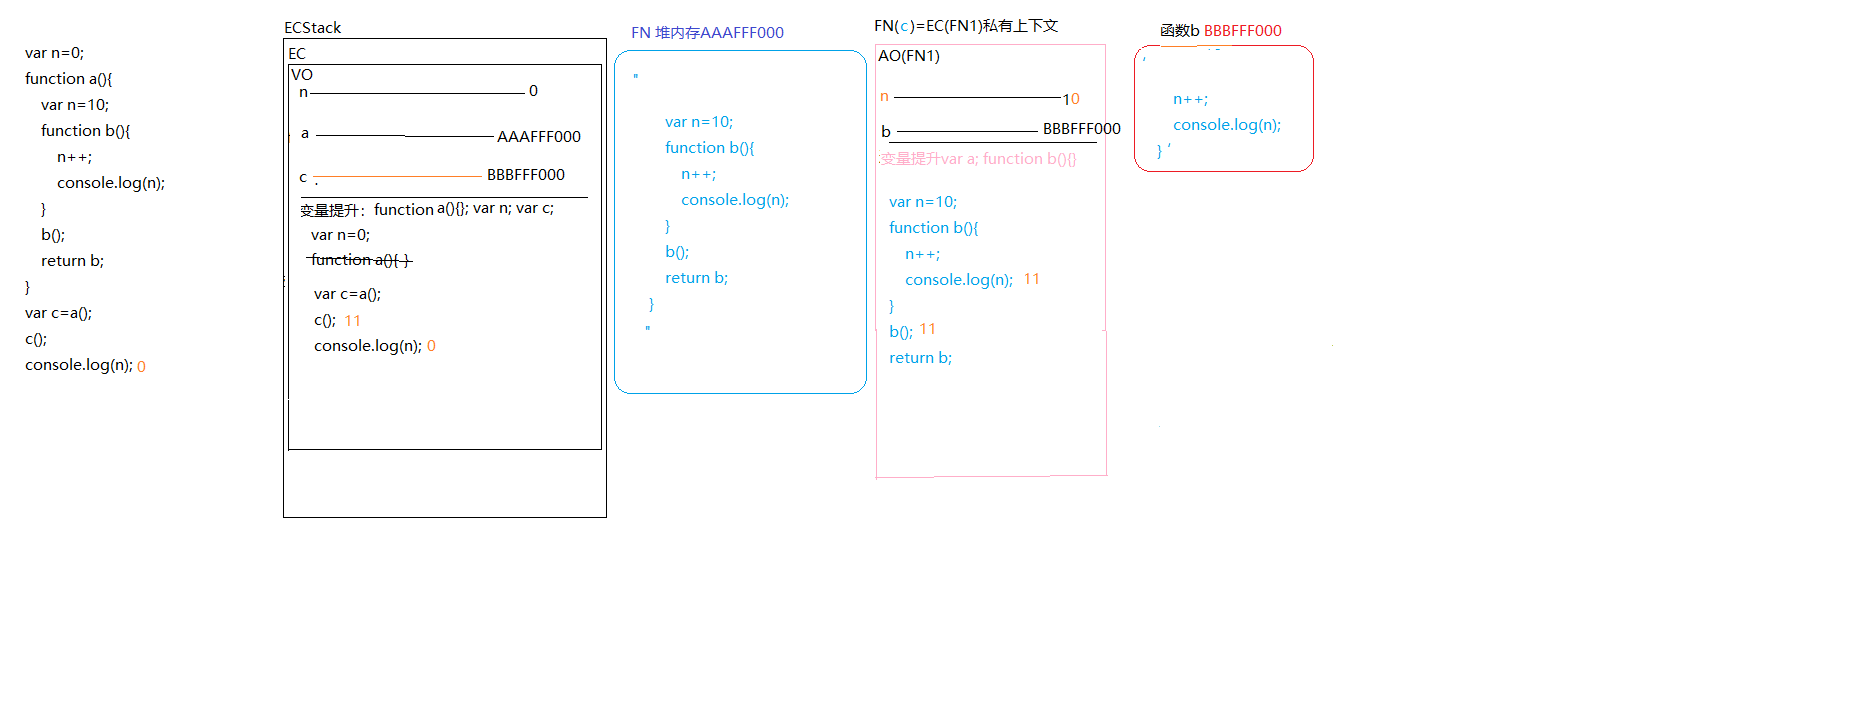
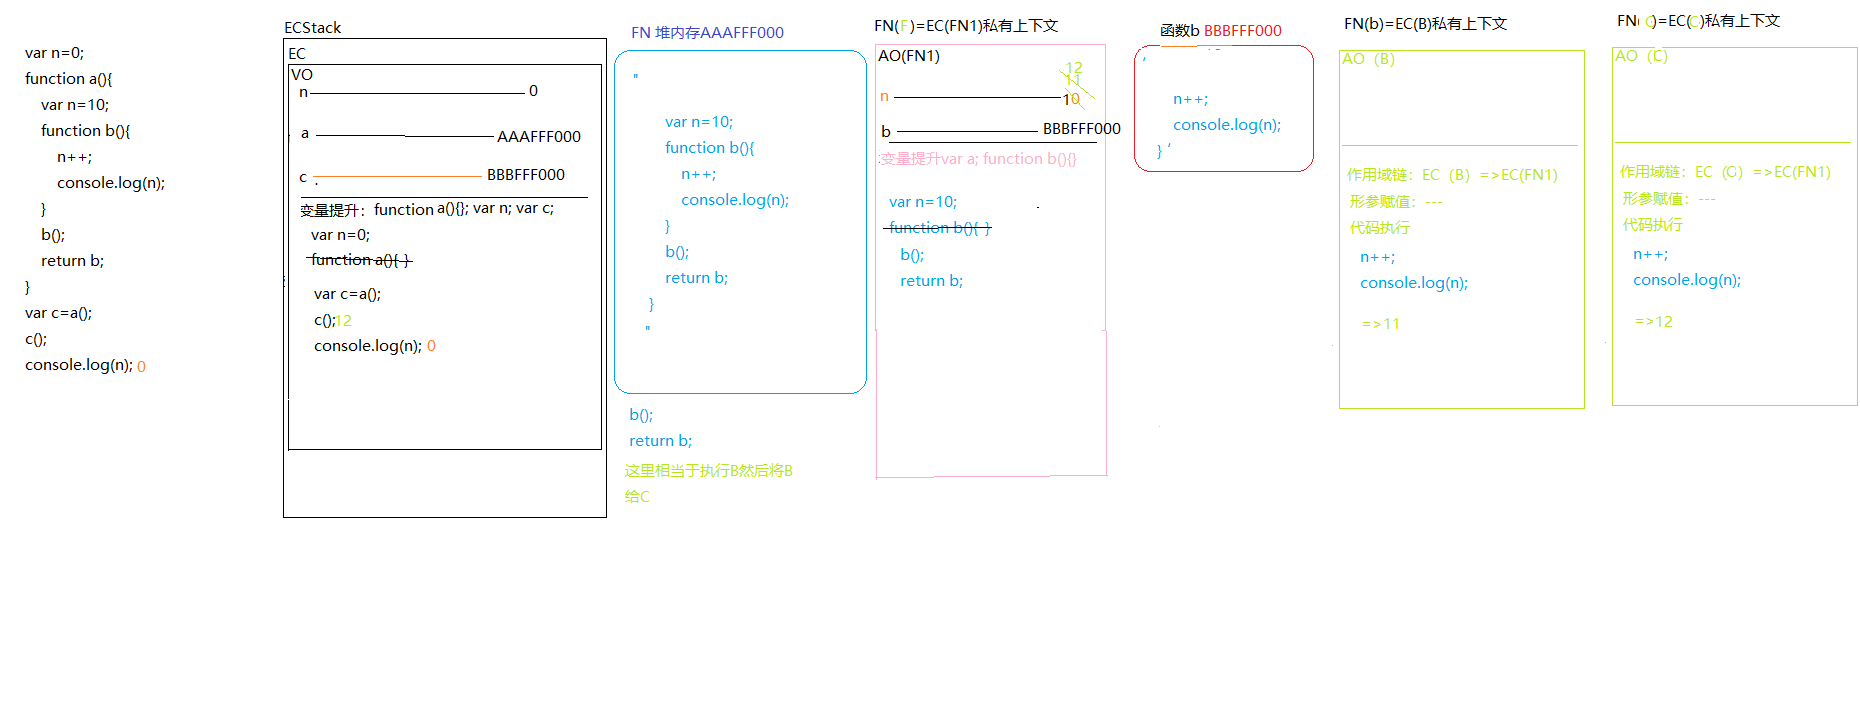
2020322

diff --git a/2020322/第一周正式课–课后作业（3）.html b/2020322/第一周正式课–课后作业（3）.html
@@ -1,0 +1,169 @@
+<!DOCTYPE html><html><head><title>第一周正式课–课后作业（3）</title><meta charset='utf-8'><link href='https://cdn.maxiang.io/res-min/themes/marxico.css' rel='stylesheet'><style>
+.note-content  {font-family: "Helvetica Neue", Arial, "Hiragino Sans GB", STHeiti, "Microsoft YaHei", "WenQuanYi Micro Hei", SimSun, Song, sans-serif;}
+
+</style></head><body><div id='preview-contents' class='note-content'>
+                        
+                    
+
+
+
+<h3 id="第一周正式课课后作业3">第一周正式课–课后作业（3）</h3>
+
+<ol start="1"><li rel="1"><p>写出下面代码输出的结果（画图）</p></li>
+</ol>
+
+<pre class="prettyprint hljs-dark"><code class="language-javascript hljs"><div class="hljs-line"><span class="hljs-keyword">let</span> obj = {
+</div><div class="hljs-line">    <span class="hljs-attr">fn</span>: (<span class="hljs-function"><span class="hljs-keyword">function</span> (<span class="hljs-params"></span>) </span>{
+</div><div class="hljs-line">        <span class="hljs-keyword">return</span> <span class="hljs-function"><span class="hljs-keyword">function</span> (<span class="hljs-params"></span>) </span>{
+</div><div class="hljs-line">            <span class="hljs-built_in">console</span>.log(<span class="hljs-keyword">this</span>);
+</div><div class="hljs-line">        }
+</div><div class="hljs-line">    })()
+</div><div class="hljs-line">};
+</div><div class="hljs-line">obj.fn();
+</div><div class="hljs-line"><span class="hljs-keyword">let</span> fn = obj.fn;
+</div><div class="hljs-line">fn();
+</div></code></pre>
+
+<ol start="2"><li rel="2"><p>写出下面代码输出的结果  </p></li>
+</ol>
+
+<pre class="prettyprint hljs-dark"><code class="language-javascript hljs"><div class="hljs-line"><span class="hljs-keyword">var</span> fullName = <span class="hljs-string">'language'</span>;
+</div><div class="hljs-line"><span class="hljs-keyword">var</span> obj = {
+</div><div class="hljs-line">    <span class="hljs-attr">fullName</span>: <span class="hljs-string">'javascript'</span>,
+</div><div class="hljs-line">    <span class="hljs-attr">prop</span>: {
+</div><div class="hljs-line">        <span class="hljs-attr">getFullName</span>: <span class="hljs-function"><span class="hljs-keyword">function</span> (<span class="hljs-params"></span>) </span>{
+</div><div class="hljs-line">            <span class="hljs-keyword">return</span> <span class="hljs-keyword">this</span>.fullName;
+</div><div class="hljs-line">        }
+</div><div class="hljs-line">    }
+</div><div class="hljs-line">};
+</div><div class="hljs-line"><span class="hljs-built_in">console</span>.log(obj.prop.getFullName());
+</div><div class="hljs-line"><span class="hljs-keyword">var</span> test = obj.prop.getFullName;
+</div><div class="hljs-line"><span class="hljs-built_in">console</span>.log(test());
+</div></code></pre>
+
+<ol start="3"><li rel="3"><p>写出下面代码输出的结果  </p></li>
+</ol>
+
+<pre class="prettyprint hljs-dark"><code class="language-javascript hljs"><div class="hljs-line"><span class="hljs-keyword">var</span> name = <span class="hljs-string">'window'</span>;
+</div><div class="hljs-line"><span class="hljs-keyword">var</span> Tom = {
+</div><div class="hljs-line">    <span class="hljs-attr">name</span>: <span class="hljs-string">"Tom"</span>,
+</div><div class="hljs-line">    <span class="hljs-attr">show</span>: <span class="hljs-function"><span class="hljs-keyword">function</span> (<span class="hljs-params"></span>) </span>{
+</div><div class="hljs-line">        <span class="hljs-built_in">console</span>.log(<span class="hljs-keyword">this</span>.name);
+</div><div class="hljs-line">    },
+</div><div class="hljs-line">    <span class="hljs-attr">wait</span>: <span class="hljs-function"><span class="hljs-keyword">function</span> (<span class="hljs-params"></span>) </span>{
+</div><div class="hljs-line">        <span class="hljs-keyword">var</span> fun = <span class="hljs-keyword">this</span>.show;
+</div><div class="hljs-line">        fun();
+</div><div class="hljs-line">    }
+</div><div class="hljs-line">};
+</div><div class="hljs-line">Tom.wait();
+</div></code></pre>
+
+<ol start="4"><li rel="4"><p>写出下面代码输出的结果   （画图）</p></li>
+</ol>
+
+<pre class="prettyprint hljs-dark"><code class="language-javascript hljs"><div class="hljs-line"><span class="hljs-built_in">window</span>.val = <span class="hljs-number">1</span>;
+</div><div class="hljs-line"><span class="hljs-keyword">var</span> json = {
+</div><div class="hljs-line">    <span class="hljs-attr">val</span>: <span class="hljs-number">10</span>,
+</div><div class="hljs-line">    <span class="hljs-attr">dbl</span>: <span class="hljs-function"><span class="hljs-keyword">function</span> (<span class="hljs-params"></span>) </span>{
+</div><div class="hljs-line">        <span class="hljs-keyword">this</span>.val *= <span class="hljs-number">2</span>;
+</div><div class="hljs-line">    }
+</div><div class="hljs-line">}
+</div><div class="hljs-line">json.dbl();
+</div><div class="hljs-line"><span class="hljs-keyword">var</span> dbl = json.dbl;
+</div><div class="hljs-line">dbl();
+</div><div class="hljs-line">json.dbl.call(<span class="hljs-built_in">window</span>);
+</div><div class="hljs-line">alert(<span class="hljs-built_in">window</span>.val + json.val);
+</div></code></pre>
+
+<ol start="5"><li rel="5"><p>写出下面代码输出的结果  </p></li>
+</ol>
+
+<pre class="prettyprint hljs-dark"><code class="language-javascript hljs"><div class="hljs-line">(<span class="hljs-function"><span class="hljs-keyword">function</span> (<span class="hljs-params"></span>) </span>{
+</div><div class="hljs-line">    <span class="hljs-keyword">var</span> val = <span class="hljs-number">1</span>;
+</div><div class="hljs-line">    <span class="hljs-keyword">var</span> json = {
+</div><div class="hljs-line">        <span class="hljs-attr">val</span>: <span class="hljs-number">10</span>,
+</div><div class="hljs-line">        <span class="hljs-attr">dbl</span>: <span class="hljs-function"><span class="hljs-keyword">function</span> (<span class="hljs-params"></span>) </span>{
+</div><div class="hljs-line">            val *= <span class="hljs-number">2</span>;
+</div><div class="hljs-line">        }
+</div><div class="hljs-line">    };
+</div><div class="hljs-line">    json.dbl();
+</div><div class="hljs-line">    alert(json.val + val);
+</div><div class="hljs-line">})();
+</div></code></pre>
+
+<ol start="6"><li rel="6"><p>写出下面代码输出的结果   （画图）</p></li>
+</ol>
+
+<pre class="prettyprint hljs-dark"><code class="language-javascript hljs"><div class="hljs-line"><span class="hljs-keyword">var</span> num = <span class="hljs-number">10</span>;
+</div><div class="hljs-line"><span class="hljs-keyword">var</span> obj = {
+</div><div class="hljs-line">    <span class="hljs-attr">num</span>: <span class="hljs-number">20</span>
+</div><div class="hljs-line">};
+</div><div class="hljs-line">obj.fn = (<span class="hljs-function"><span class="hljs-keyword">function</span> (<span class="hljs-params">num</span>) </span>{
+</div><div class="hljs-line">    <span class="hljs-keyword">this</span>.num = num * <span class="hljs-number">3</span>;
+</div><div class="hljs-line">    num++;
+</div><div class="hljs-line">    <span class="hljs-keyword">return</span> <span class="hljs-function"><span class="hljs-keyword">function</span> (<span class="hljs-params">n</span>) </span>{
+</div><div class="hljs-line">        <span class="hljs-keyword">this</span>.num += n;
+</div><div class="hljs-line">        num++;
+</div><div class="hljs-line">        <span class="hljs-built_in">console</span>.log(num);
+</div><div class="hljs-line">    }
+</div><div class="hljs-line">})(obj.num);
+</div><div class="hljs-line"><span class="hljs-keyword">var</span> fn = obj.fn;
+</div><div class="hljs-line">fn(<span class="hljs-number">5</span>);
+</div><div class="hljs-line">obj.fn(<span class="hljs-number">10</span>);
+</div><div class="hljs-line"><span class="hljs-built_in">console</span>.log(num, obj.num);
+</div></code></pre>
+
+<ol start="7"><li rel="7"><p>以下代码的功能是要实现为5个input按钮循环绑定click点击事件，绑定完成后点击1、2、3、4、5五个按钮分别会alert输出0、1、2、3、4五个字符。（腾讯）</p>
+
+<ul>
+<li><p>请问如下代码是否能实现？</p></li>
+<li><p>如果不能实现那么现在的效果是什么样的？</p></li>
+<li><p>应该做怎样的修改才能达到我们想要的效果，并说明原理？  </p></li></ul></li>
+</ol>
+
+<pre class="prettyprint hljs-dark"><code class="hljs xml"><div class="hljs-line"><span class="hljs-tag">&lt;<span class="hljs-name">div</span> <span class="hljs-attr">id</span>=<span class="hljs-string">"btnBox"</span>&gt;</span>
+</div><div class="hljs-line">    <span class="hljs-tag">&lt;<span class="hljs-name">input</span> <span class="hljs-attr">type</span>=<span class="hljs-string">"button"</span> <span class="hljs-attr">value</span>=<span class="hljs-string">"button_1"</span> /&gt;</span>
+</div><div class="hljs-line">    <span class="hljs-tag">&lt;<span class="hljs-name">input</span> <span class="hljs-attr">type</span>=<span class="hljs-string">"button"</span> <span class="hljs-attr">value</span>=<span class="hljs-string">"button_2"</span> /&gt;</span>
+</div><div class="hljs-line">    <span class="hljs-tag">&lt;<span class="hljs-name">input</span> <span class="hljs-attr">type</span>=<span class="hljs-string">"button"</span> <span class="hljs-attr">value</span>=<span class="hljs-string">"button_3"</span> /&gt;</span>
+</div><div class="hljs-line">    <span class="hljs-tag">&lt;<span class="hljs-name">input</span> <span class="hljs-attr">type</span>=<span class="hljs-string">"button"</span> <span class="hljs-attr">value</span>=<span class="hljs-string">"button_4"</span> /&gt;</span>
+</div><div class="hljs-line">    <span class="hljs-tag">&lt;<span class="hljs-name">input</span> <span class="hljs-attr">type</span>=<span class="hljs-string">"button"</span> <span class="hljs-attr">value</span>=<span class="hljs-string">"button_5"</span> /&gt;</span>
+</div><div class="hljs-line"><span class="hljs-tag">&lt;/<span class="hljs-name">div</span>&gt;</span>
+</div><div class="hljs-line">
+</div><div class="hljs-line"><span class="hljs-tag">&lt;<span class="hljs-name">script</span> <span class="hljs-attr">type</span>=<span class="hljs-string">"text/javascript"</span>&gt;</span><span class="javascript"></span>
+</div><div class="hljs-line"><span class="javascript">    <span class="hljs-keyword">var</span> btnBox=<span class="hljs-built_in">document</span>.getElementById(<span class="hljs-string">'btnBox'</span>),</span>
+</div><div class="hljs-line"><span class="javascript">        inputs=btnBox.getElementsByTagName(<span class="hljs-string">'input'</span>);</span>
+</div><div class="hljs-line"><span class="javascript">    <span class="hljs-keyword">var</span> l=inputs.length;</span>
+</div><div class="hljs-line"><span class="javascript">    <span class="hljs-keyword">for</span>(<span class="hljs-keyword">var</span> i=<span class="hljs-number">0</span>;i&lt;l;i++){</span>
+</div><div class="hljs-line"><span class="javascript">        inputs[i].onclick=<span class="hljs-function"><span class="hljs-keyword">function</span>(<span class="hljs-params"></span>)</span>{</span>
+</div><div class="hljs-line"><span class="javascript">            alert(i);</span>
+</div><div class="hljs-line"><span class="javascript">        }</span>
+</div><div class="hljs-line"><span class="javascript">    }</span>
+</div><div class="hljs-line"><span class="javascript"></span><span class="hljs-tag">&lt;/<span class="hljs-name">script</span>&gt;</span>
+</div></code></pre>
+
+<ol start="8"><li rel="8"><p>你理解的闭包作用是什么，优缺点？</p></li>
+<li rel="9"><p>简述let和var的区别</p></li>
+<li rel="10"><p>改造下面代码，使之输出0-9</p></li>
+</ol>
+
+
+
+<pre class="prettyprint hljs-dark"><code class="language-javascript hljs"><div class="hljs-line"><span class="hljs-keyword">for</span> (<span class="hljs-keyword">var</span> i = <span class="hljs-number">0</span>; i &lt; <span class="hljs-number">10</span>; i++) {
+</div><div class="hljs-line">    setTimeout(<span class="hljs-function"><span class="hljs-params">()</span> =&gt;</span> {
+</div><div class="hljs-line">        <span class="hljs-built_in">console</span>.log(i);
+</div><div class="hljs-line">    }, <span class="hljs-number">1000</span>);
+</div><div class="hljs-line">}
+</div></code></pre>
+
+<ol start="11"><li rel="11"><p>下面代码输出的结果是多少，为什么？如何改造一下，就能让其输出 20 10？</p></li>
+</ol>
+
+
+
+<pre class="prettyprint hljs-dark"><code class="language-javascript hljs"><div class="hljs-line"><span class="hljs-keyword">var</span> b = <span class="hljs-number">10</span>;
+</div><div class="hljs-line">(<span class="hljs-function"><span class="hljs-keyword">function</span> <span class="hljs-title">b</span>(<span class="hljs-params"></span>) </span>{
+</div><div class="hljs-line">    b = <span class="hljs-number">20</span>;
+</div><div class="hljs-line">    <span class="hljs-built_in">console</span>.log(b);
+</div><div class="hljs-line">})();
+</div><div class="hljs-line"><span class="hljs-built_in">console</span>.log(b);
+</div></code></pre></div></body></html>

diff --git a/2020322/index.html b/2020322/index.html
@@ -1,0 +1,24 @@
+<!DOCTYPE html>
+<html lang="en">
+
+<head>
+    <meta charset="UTF-8">
+    <meta name="viewport" content="width=device-width, initial-scale=1.0">
+    <title>Document</title>
+</head>
+
+<body>
+    <script>
+        var b = 10;
+        (function b() {
+            b = 20;
+            console.log(b);
+        })();
+        console.log(b);
+    </script>
+
+
+
+</body>
+
+</html>

diff --git a/2020322/work.md b/2020322/work.md
@@ -1,0 +1,49 @@
+1、
+- fn:f
+- window{}
+2、
+- undefined
+- 'language'
+3、
+- "windiw"
+4、
+- 24
+5、
+- 12
+6、
+- 22
+- 23
+- 10
+- 32
+7、
+- 不能实现
+- 点击按钮弹出的提示框都为5
+- 1、自定义属性的方法（因为var定义的是全局变量，循环执行完i的值已经是5了所以点击那个按钮·弹出的都是5）   2、闭包    3、将for循环中i用lel定义 (let是ES6属性，在for循环中用let定义i，此时的i是私有变量，没循环一次都会输出一个i的值)
+8、
+- 闭包：当函数执行会形成一个私有的上下文和作用域，这个上下文中的私有变量不会和外界变量产生冲突
+- 优点：
+    -保护：会形成一个私有的上下文和作用域，私有上下文中的私有变量不会和外界产生冲突，避免了全局变量污染的情况
+    -保存：某些情况下，上下文中的某些变量被外部占用后，当前上下文并不会出栈销毁，这样就把上下文中一些信息保存起来
+- 缺点：性能不好，每执行一次都会形成一个不被释放的栈内存
+9、
+- var存在变量提升，let不存在变量提升
+- let是不可以重复声明的，而var可以重复声明
+- let定义的变量只是全局变量，而var创建的变量还要加到全局对象GO中
+- let解决浏览器暂时性死区
+- let可以形成块级作用域
+10、<script>
+        for (let i = 0; i < 10; i++) {
+        setTimeout(() => {
+            console.log(i);
+        }, 1000);
+    }
+    </script>
+11、
+<script>
+        var b = 10;
+        (function b() {
+            var b = 20;
+            console.log(b);
+        })();
+        console.log(b);
+    </script>
